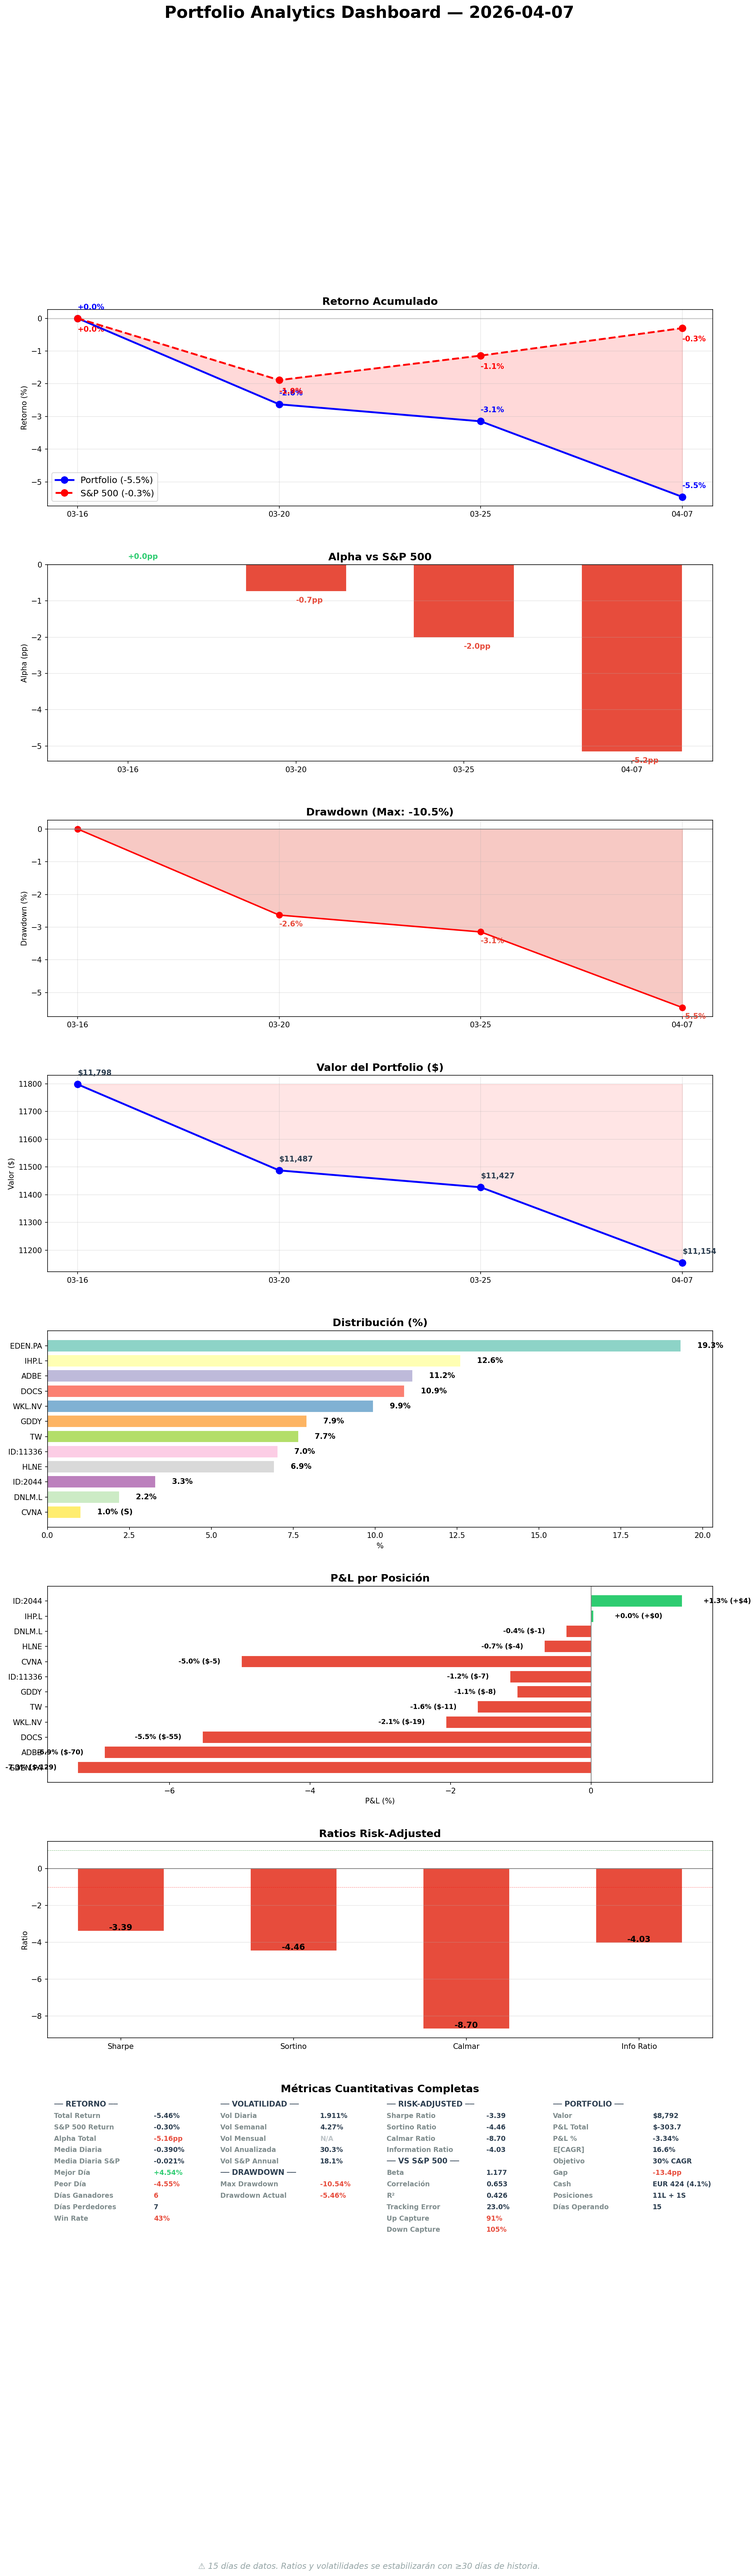
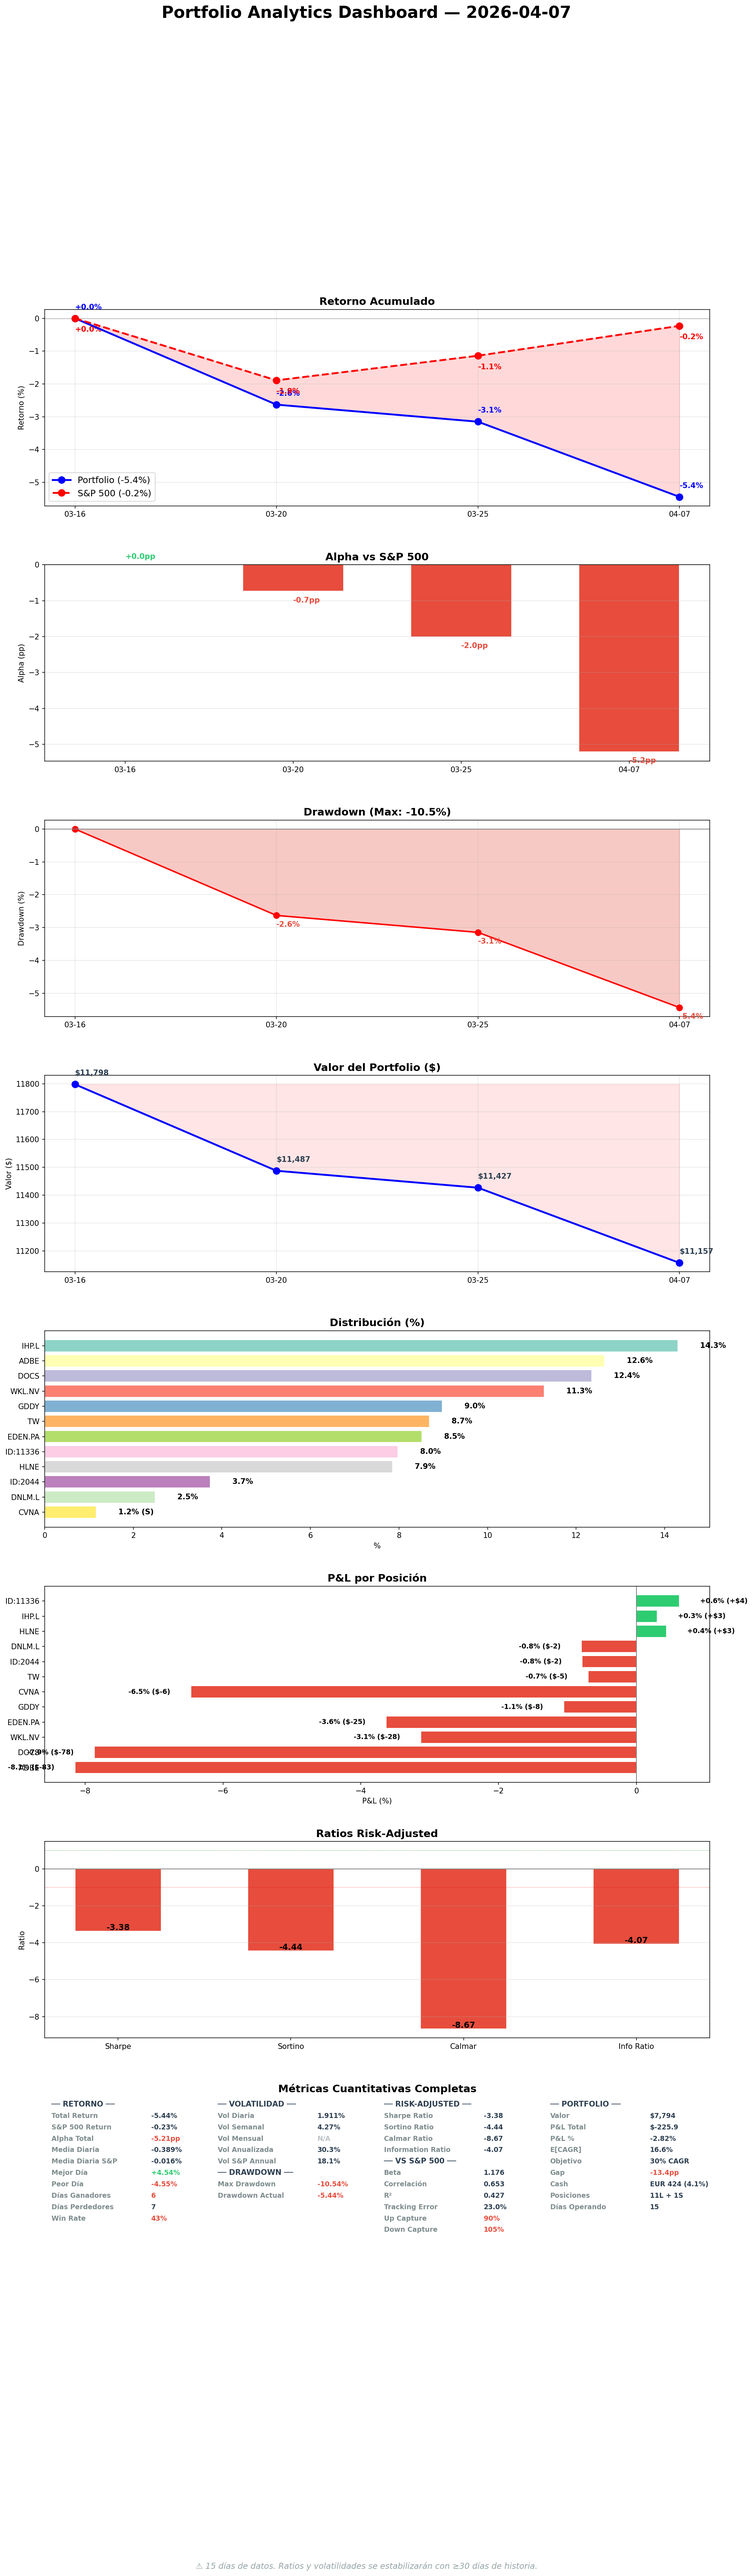
Monday close: daily report finalized, tracker updated, objectives 44% (11/25)

diff --git a/reports/daily/2026-04-07.md b/reports/daily/2026-04-07.md
@@ -7,9 +7,9 @@
 | Fecha | Portfolio | S&P 500 | Alpha |
 |-------|----------|---------|-------|
 | Mar 16 (inicio) | 0.0% | 0.0% | — |
-| Apr 7 (hoy) | -5.5% | -0.3% | -5.2pp |
+| Apr 7 (hoy) | -5.4% | -0.2% | -5.2pp |
 
-**¿Qué significa?** Perdemos al mercado por 5.2pp desde inception. La mayor parte del underperformance viene de EDEN.PA (-$128 unrealized, 14.6% del portfolio) y la reestructuración de 8 trades el 27 de marzo que generó costes de transición. El S&P se ha recuperado casi a par mientras nosotros seguimos 5.5% abajo. Hoy ejecutamos el trim de EDEN.PA para reducir esta exposición.
+**¿Qué significa?** Perdemos al mercado por 5.2pp desde inception. La mayor parte del underperformance viene de EDEN.PA (-$129 unrealized pre-trim) y la reestructuración de 8 trades el 27 de marzo. El S&P se ha recuperado casi a par (-0.2%) mientras nosotros seguimos -5.4%. Hoy ejecutamos EDEN.PA trim (13%→6%) y MEGP.L buy ($650).
 
 ## 2. Resumen ejecutivo
 Después de 6 días sin actividad (Apr 1-6), sesión de recuperación intensiva ayer (domingo) y hoy (lunes). Se ejecutaron: KC sweep (limpio), stress test (todo mejor), SM report (EDEN.PA shorts escalating a 10.02%), 5 sector views refresh (orforglipron APROBADO Apr 1 — validó NVO exit), challenge protocol sobre EDEN.PA (zero-base test → trim de 13%→6%), KNSL R3, NBIX R1→DA→R3 completo en 24h, SEIC R1+DA, ICE R1, DNLM.L earnings framework. Hoy: ejecutar EDEN.PA trim y MEGP.L compra a las 9:00 EU.
@@ -169,11 +169,11 @@ Funcionó perfectamente. Una pregunta zero-base generó autorreflexión completa
 ## 14. Objetivos — cumplimiento
 | Objetivo | Meta | Resultado | Status |
 |----------|------|-----------|--------|
-| Screening | ≥5 R1/day | 0 hoy (pendiente) | ❌ |
-| DA (R2) | ≥5 DA/day | 0 hoy (pendiente) | ❌ |
+| Screening | ≥5 R1/day | 0 (5 ayer, 0 hoy) | ❌ |
+| DA (R2) | ≥5 DA/day | 3 (4 ayer, 0 hoy) | ❌ |
 | Smart money | ≥1/day | 1 (Apr 7) | ✅ |
 | R4 candidates | ≥5/week | 0 | ❌ |
-| Pipeline velocity | ≥15/week | 10 | ❌ |
+| Pipeline velocity | ≥15/week | 9 files | ❌ |
 | Position health | all ≥60 | 87/100 avg | ✅ |
 | Pipeline stagnation | 0 >30d | 38 | ❌ |
 | SO freshness | 0 blocked/stale | 1 blocked, 5 stale | ❌ |
@@ -184,20 +184,20 @@ Funcionó perfectamente. Una pregunta zero-base generó autorreflexión completa
 | SM exodus | 0 | 0 | ✅ |
 | Meta-compliance | ≥40 | 57/100 | ✅ |
 | Pipeline total | ≥50 | 171 | ✅ |
-| Thesis freshness | 0 stale | 12 stale | ❌ |
-| Sector views | 0 stale | 31/35 stale | ❌ |
+| Thesis freshness | 0 stale | 11 stale | ❌ |
+| Sector views | 0 stale | 26/36 stale | ❌ |
 | Stress test | ≥1/week | 1 | ✅ |
-| KC reviewed | today | yes | ✅ |
+| KC reviewed | today | 0 hoy | ❌ |
 | FV consistency | 0 divergences | 2 | ❌ |
 | System integration | 0 gaps | 0 | ✅ |
 | File hygiene | <50 lines | yes | ✅ |
-| Earnings prep | 100% | pending | ❌ |
+| Earnings prep | 100% | 0/1 (TSLA missing) | ❌ |
 | Tweets | published | 5 eToro | ✅ |
-| Daily report | yesterday | pending | ❌ |
+| Daily report | yesterday | yes (Apr 6) | ✅ |
 
-Total: ~13/25 (52%)
+Total: 11/25 (44%)
 
-**¿Qué significa?** Subimos de 32% (Apr 6 mañana) a 52%. Los RED principales son: sector views (31/35 stale), thesis freshness (12 stale), pipeline stagnation (38 items). Estos son estructurales y necesitan varios días de trabajo sostenido. Los que más impactan al 30% CAGR son pipeline velocity y rotaciones — ambos dependen de que el especialista produzca R3s/R4s.
+**¿Qué significa?** 44% cumplimiento (11/25). Los RED principales: sector views (26/36 stale), thesis freshness (11 stale), pipeline stagnation (38 items >30d), KC no revisados hoy. Pipeline velocity 9/15 semanal — necesita 6 más esta semana. Los que más impactan al 30% CAGR son pipeline velocity y rotaciones.
 
 ## 15. Eventos y contexto
 | Fecha | Evento | Días |

diff --git a/state/push_tracker.md b/state/push_tracker.md
@@ -2,19 +2,18 @@
 # Read EVERY cycle before pushing specialist. No excuses.
 
 ## RESUELTO (no repetir)
-- EDEN.PA trim 13%→6% decided, execute 9:00 today
-- 6/6 earnings frameworks (DOCS, HLNE, CVNA, TW, DNLM.L, NVO archived)
-- Stress test Apr 6: all metrics better/flat
-- SM daily report Apr 6 done + FCA/AMF refreshed
-- KNSL R3, NBIX R3, SEIC R1, ICE R1 — pipeline velocity 8 units
-- SOON.SW archived, WING flagged post-May
-- FV divergence DNLM.L fixed (1050→1008)
+- EDEN.PA trim 82→32 units EXECUTED (orderID 340783804)
+- MEGP.L buy $650 EXECUTED (orderID 340783803, settling)
+- 6/6 earnings frameworks done
+- KNSL R3, NBIX R3, SEIC R1+DA, ICE R1, PODD R1+DA, UTHR R1+DA
+- Pipeline velocity 12 units Apr 6-7
 
 ## ABIERTO (por prioridad CAGR)
-- EDEN.PA trim execution 9:00 today (~50 units)
-- MEGP.L buy EUR 600 at 9:00 today (not in eToro)
-- Oil $115 regime change — monitor HLNE/DNLM.L recession risk
+- MEGP.L settlement verification (check tomorrow)
+- Oil $115 regime — monitor HLNE/DNLM.L recession risk
 - DNLM.L Q3 Apr 16 — framework ready, 9 days
 - TW EXIT CONDITIONAL Q1 Apr 29
 - DOCS/HLNE at 52wL — wait May earnings
 - 90-day clocks: DNLM.L Jun25, ITRK.L Jun24, MEGP.L Jun24, ALFA.L Jun27
+- Sector views: 26/36 stale — push specialist to refresh
+- Pipeline stagnation: 38 items >30d, bottleneck R2→R3
